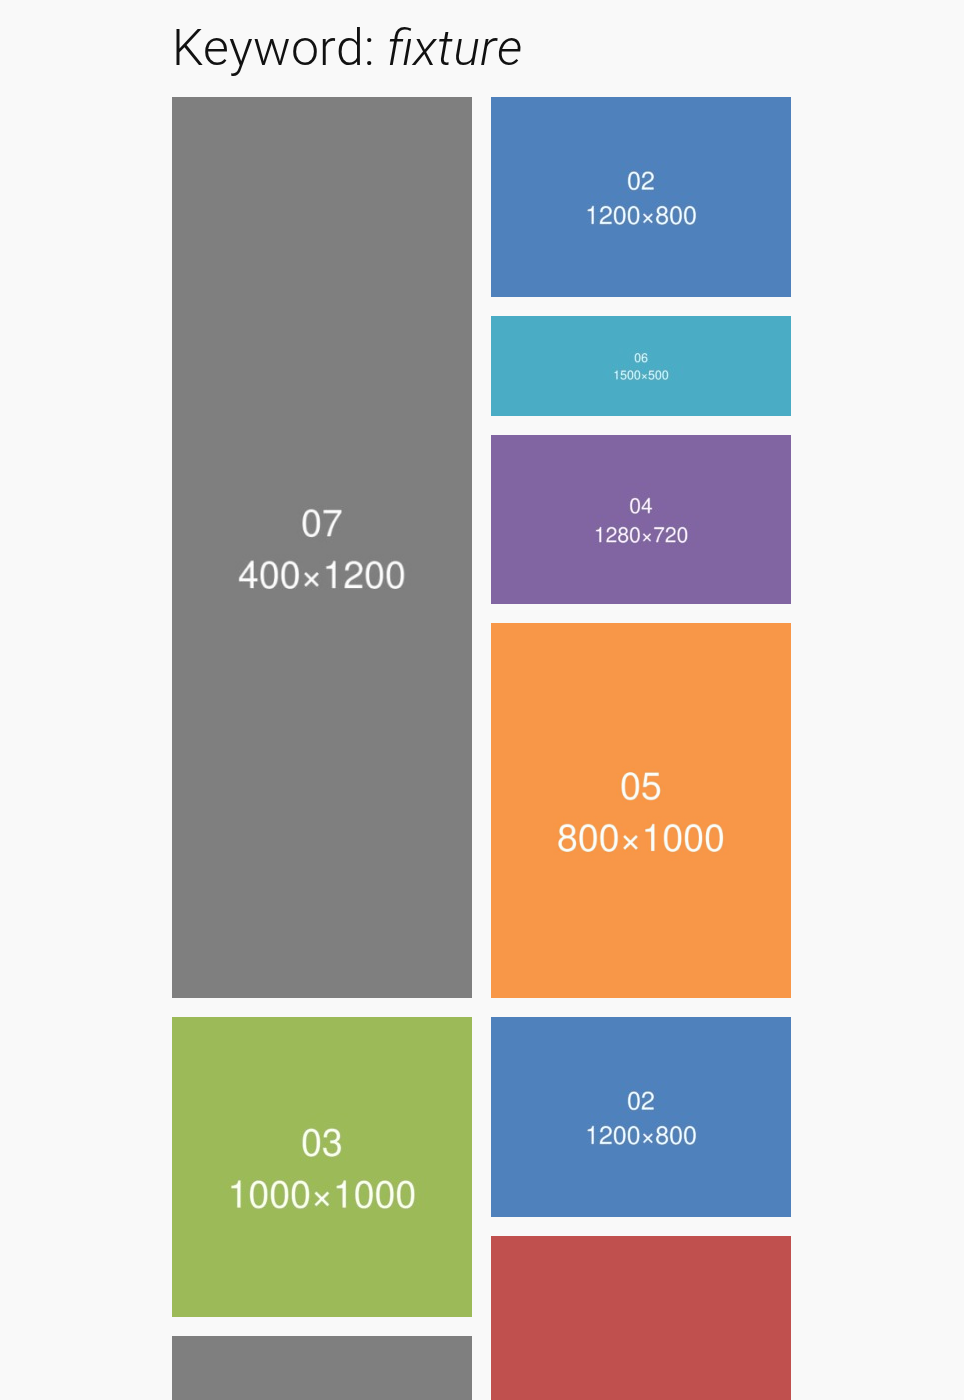
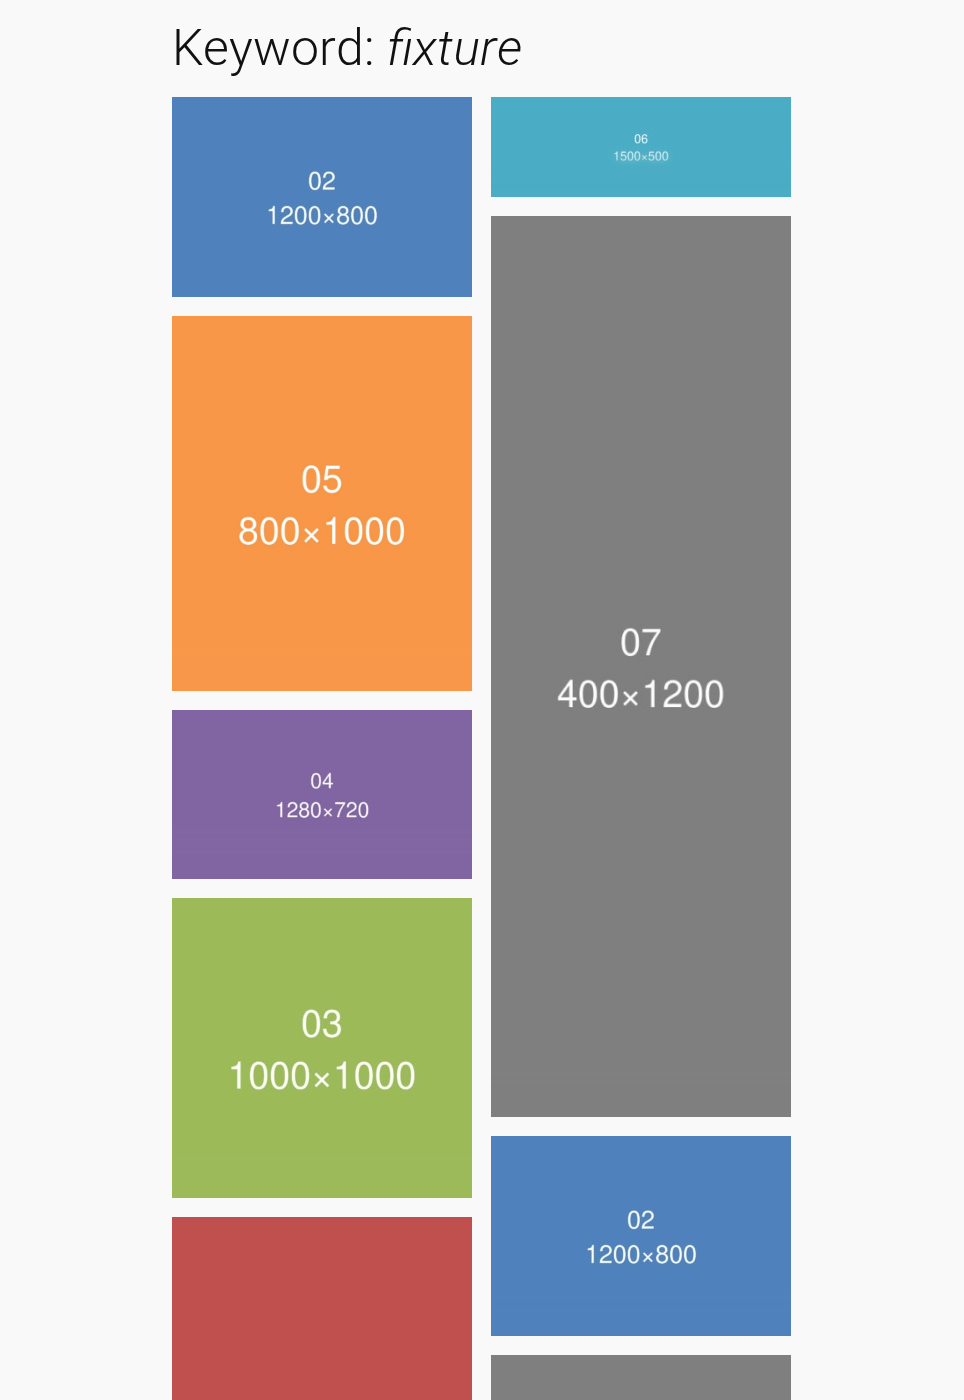
docs: Taxonomy Gallery in the readmes; screenshot-17 from its gallery

diff --git a/tests/e2e/screenshots.js b/tests/e2e/screenshots.js
@@ -260,8 +260,8 @@ test( 'screenshot-17: an image taxonomy archive, in the Image Archives template'
 	// The keyword every test image has.
 	const term = lastLine( wp( 'eval', `$t = get_term_by( 'slug', 'fixture', 'photos_keywords' ); echo $t ? wp_make_link_relative( get_term_link( $t ) ) : '';` ) );
 	test.skip( ! term, 'The test images have no fixture keyword.' );
-	const block = await front( page, term, { width: 1100, height: 1400 }, '.wp-block-photopress-archive-images' );
-	await expect( block.locator( 'figure.wp-block-gallery' ) ).toHaveClass( /photopress-laid-out/ );
+	const block = await front( page, term, { width: 1100, height: 1400 }, 'main figure.wp-block-gallery' );
+	await expect( block ).toHaveClass( /photopress-laid-out/ );
 	// From the archive's title.
 	const heading = page.locator( '.wp-block-query-title' ).first();
 	await heading.evaluate( ( el ) => window.scrollBy( 0, el.getBoundingClientRect().top - 20 ) );

diff --git a/README.md b/README.md
@@ -102,7 +102,7 @@ For block themes that have no templates of their own for them (WordPress 6.7 or 
 - Image archives: a keyword's, a camera's or any image taxonomy's archive page shows its images in the Masonry layout, with links to more pages
 - Image pages: the image, its caption and description, its taxonomy terms and its exposure details
 - Both are edited in the Site Editor, like the theme's own templates, and can be turned off in the Gallery tab
-- Archive Images and Attachment Image blocks, to build your own
+- Taxonomy Gallery, a Gallery block variation in any PhotoPress layout: on an image archive template, the archive's images; anywhere else, the latest images or those of a keyword, camera or other term. And the Attachment Image block
 - An archive of an image taxonomy looks for a taxonomy-attachment template, as themes built on the Frame framework do
 
 ![A keyword's images in the Image Archives template](.wordpress-org/screenshot-17.png)
